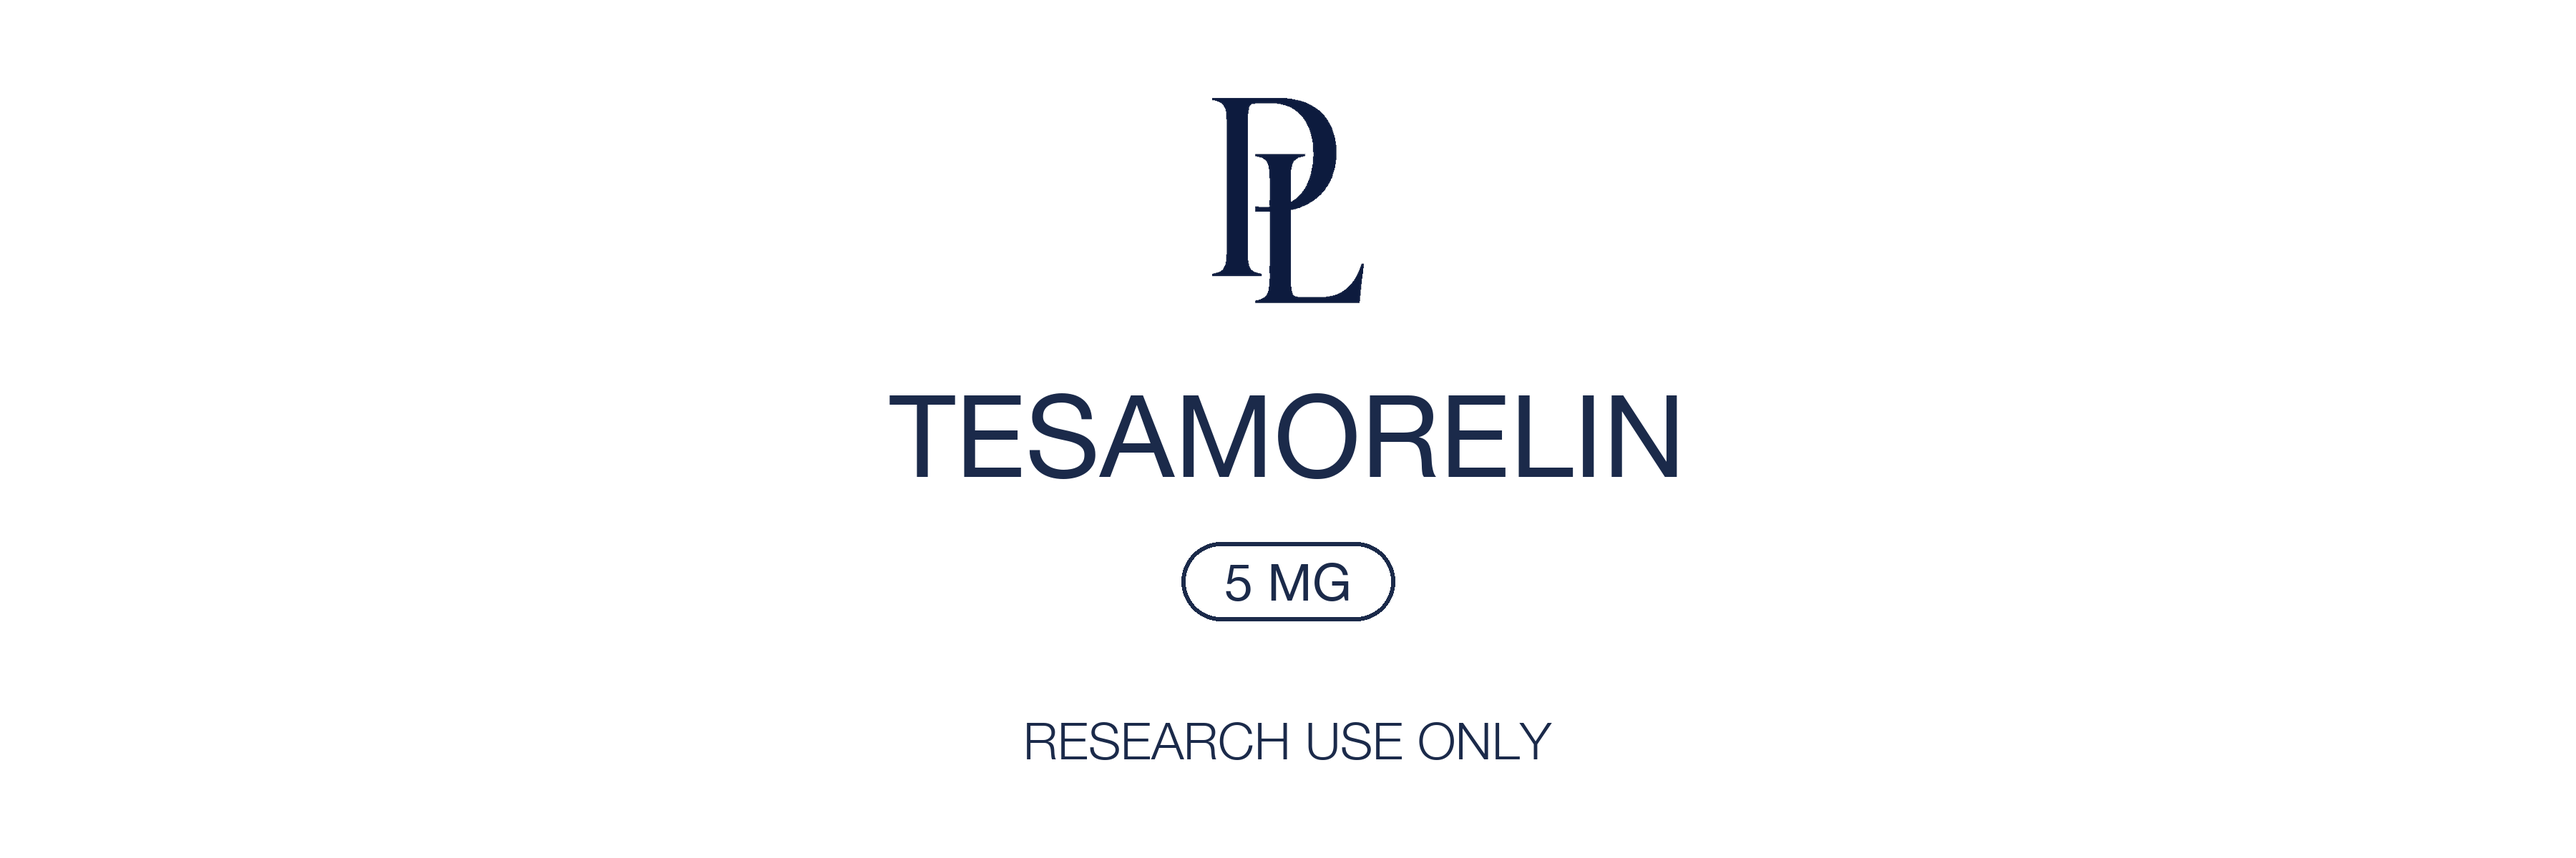
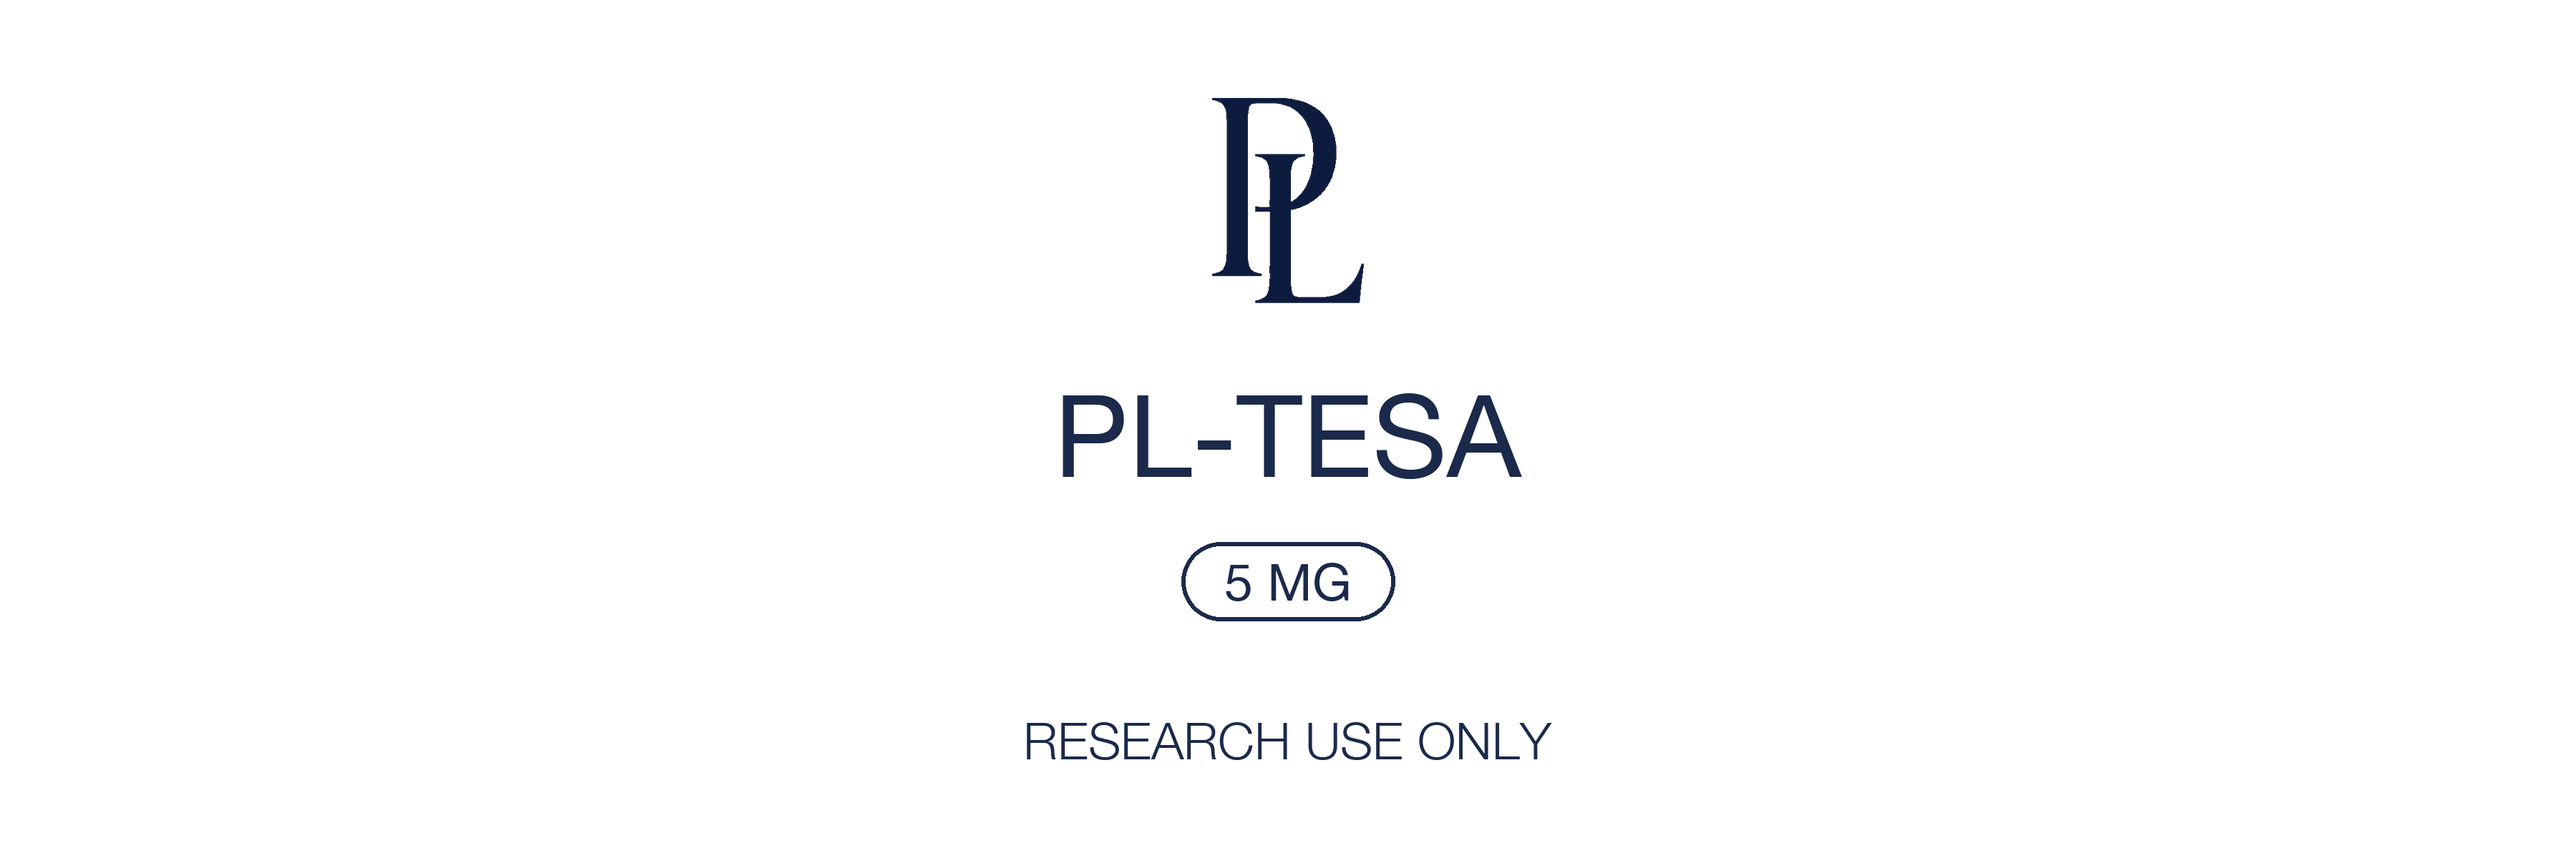
fix: rename TESA to PL-TESA — slug, label, and code mappings

Changed region(s): [[0.3422, 0.4625, 0.6533, 0.555]]

diff --git a/src/app/products/[slug]/page.tsx b/src/app/products/[slug]/page.tsx
@@ -98,6 +98,7 @@ export default async function ProductPage({
                     "igf1": "/3d/label-igf1lr3.png",
                     "tesamorelin": "/3d/label-tesamorelin.png",
                     "tesa": "/3d/label-tesamorelin.png",
+                    "pl-tesa": "/3d/label-tesamorelin.png",
                     "klow": "/3d/label-klow.png",
                     "mots-c": "/3d/label-motsc.png",
                     "motsc": "/3d/label-motsc.png",

diff --git a/src/lib/coaDirectory.ts b/src/lib/coaDirectory.ts
@@ -171,7 +171,7 @@ export const COA_DIRECTORY: CoaEntry[] = [
     docs: [{ label: "View COA", url: "/coas/KLOW_COA.jpg" }],
   },
   {
-    slug: "tesamorelin-5mg",
+    slug: "pl-tesa",
     lab: "BT Labs · 2026",
     title: "Tesamorelin 5MG",
     purity: "99.7%",

diff --git a/scripts/generate-labels.py b/scripts/generate-labels.py
@@ -119,7 +119,7 @@ PRODUCTS = [
     ("label-selank.png",      "SELANK",                "10 MG"),
     ("label-tirzepatide.png", "PL-TZ",                 "10 MG"),
     ("label-igf1lr3.png",     "IGF-1-LR3",             "1 MG"),
-    ("label-tesamorelin.png", "TESAMORELIN",           "5 MG"),
+    ("label-tesamorelin.png", "PL-TESA",               "5 MG"),
     ("label-klow.png",        "KLOW",                  "80 MG"),
     ("label-motsc.png",       "MOTS-C",                "10 MG"),
     ("label-wolverine.png",    "BPC-157 / TB-500",      "10 MG / 10 MG"),
